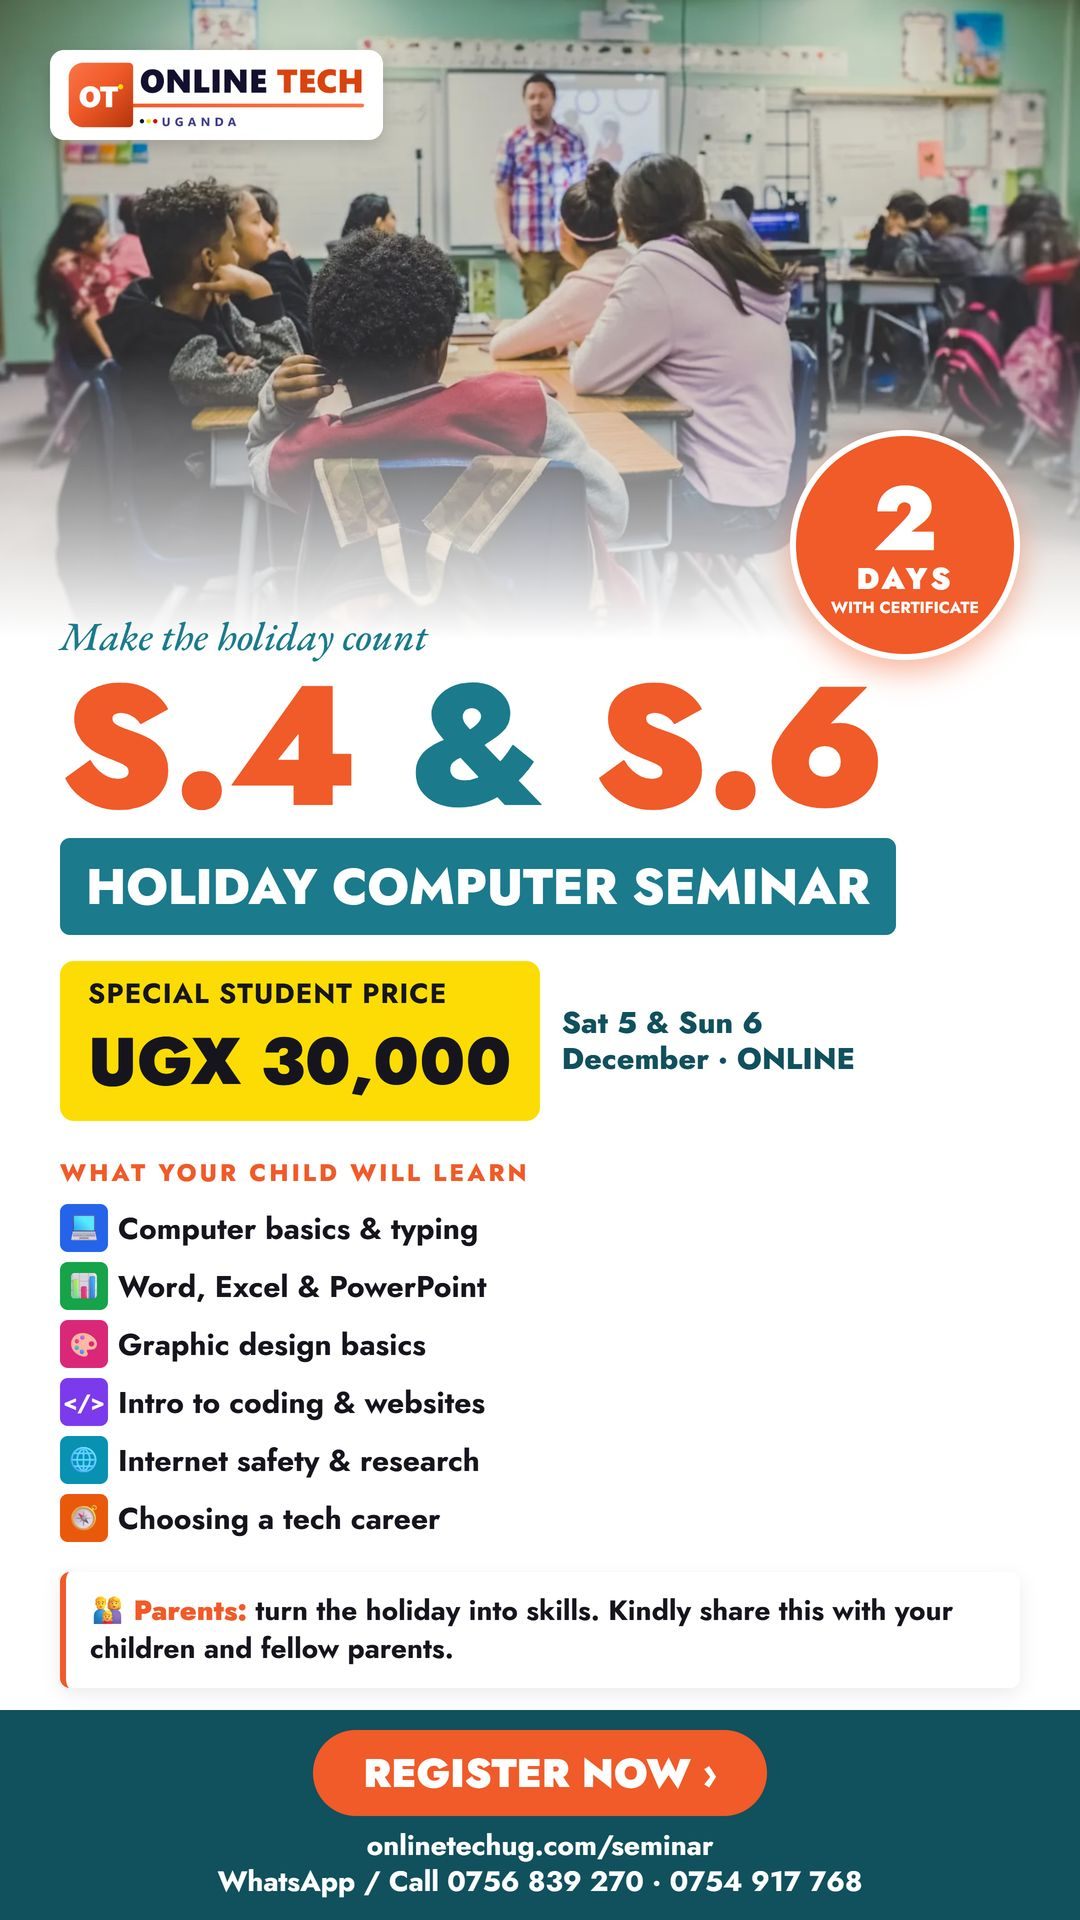
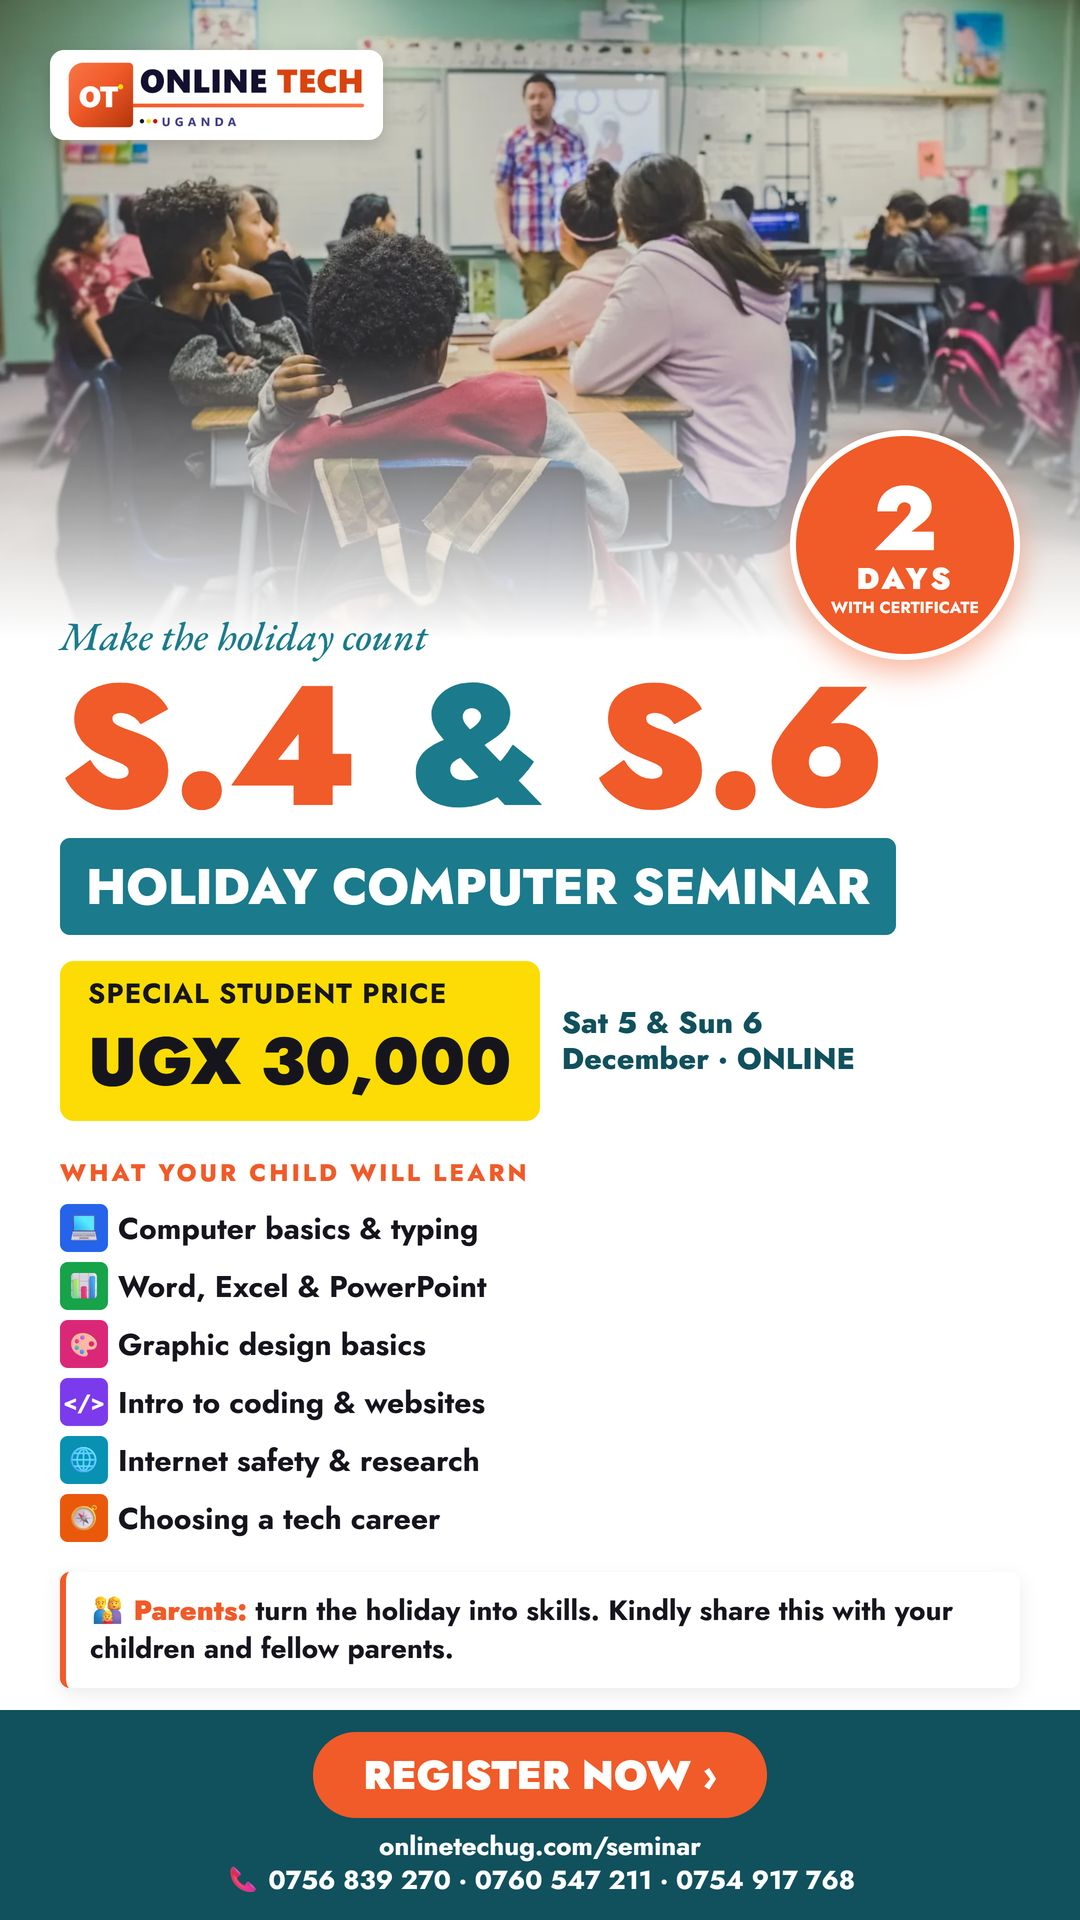
Seminar: all three contact numbers on the page, form and posters

Changed region(s): [[0.2139, 0.9062, 0.7944, 1.0]]

diff --git a/apps/web/src/components/seminar-form.tsx b/apps/web/src/components/seminar-form.tsx
@@ -72,7 +72,7 @@ export function SeminarForm() {
     <form onSubmit={submit} className="rounded-md bg-white p-6 shadow-sm">
       <p className="text-[24px] font-semibold text-ink-900">Register a student</p>
       <p className="mt-1 text-[14px] text-ink-700/75">Parents may register for their children. Saturday 5 &amp; Sunday 6 December, online. We confirm how to pay.</p>
-      <p className="mt-2 text-[14px] font-semibold text-ink-900">📞 Call or WhatsApp: <a href="tel:+256756839270" className="text-brand-600">0756 839 270</a> · <a href="tel:+256754917768" className="text-brand-600">0754 917 768</a></p>
+      <p className="mt-2 text-[14px] font-semibold text-ink-900">📞 Call or WhatsApp: <a href="tel:+256756839270" className="text-brand-600">0756 839 270</a> · <a href="tel:+256760547211" className="text-brand-600">0760 547 211</a> · <a href="tel:+256754917768" className="text-brand-600">0754 917 768</a></p>
       <div className="mt-4 grid gap-3">
         <label className="text-[14px] font-semibold text-ink-800">Student&apos;s full name<input name="student" required minLength={2} className={input} /></label>
         <label className="text-[14px] font-semibold text-ink-800">
@@ -94,7 +94,7 @@ export function SeminarForm() {
       </button>
       {sent === "fail" && (
         <p className="mt-3 text-[14px] text-red-600">
-          That did not go through. Please WhatsApp 0756 839 270 or 0754 917 768 with the student&apos;s name and class.
+          That did not go through. Please WhatsApp 0756 839 270, 0760 547 211 or 0754 917 768 with the student&apos;s name and class.
         </p>
       )}
     </form>

diff --git a/apps/web/src/app/seminar/page.tsx b/apps/web/src/app/seminar/page.tsx
@@ -78,7 +78,7 @@ export default function SeminarPage() {
             >
               Share on WhatsApp
             </a>
-            <p className="mt-3 text-[14px] text-ink-700/85">Questions? Call or WhatsApp <a href="tel:+256756839270" className="font-semibold text-brand-600">0756 839 270</a> or <a href="tel:+256754917768" className="font-semibold text-brand-600">0754 917 768</a>.</p>
+            <p className="mt-3 text-[14px] text-ink-700/85">Questions? Call or WhatsApp <a href="tel:+256756839270" className="font-semibold text-brand-600">0756 839 270</a>, <a href="tel:+256760547211" className="font-semibold text-brand-600">0760 547 211</a> or <a href="tel:+256754917768" className="font-semibold text-brand-600">0754 917 768</a>.</p>
           </div>
 
           <div className="mt-8 overflow-hidden rounded-md">
